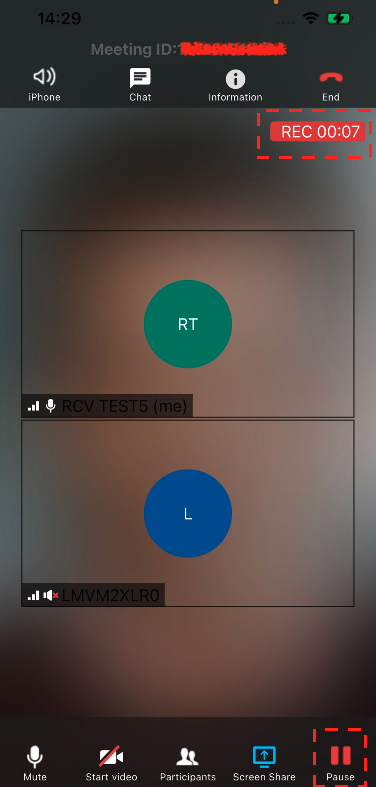
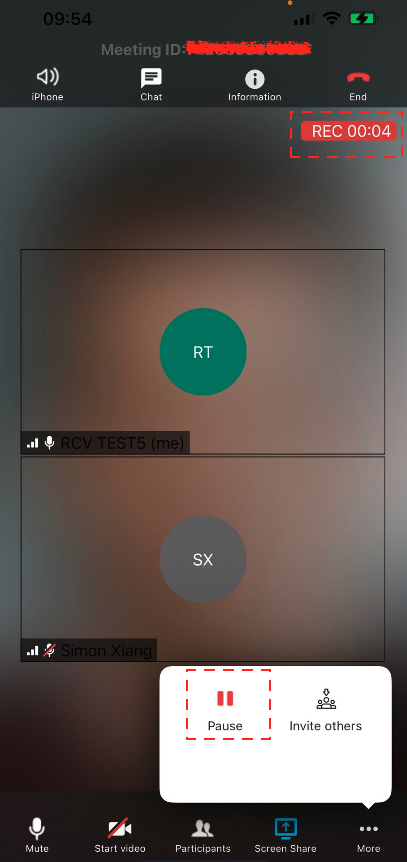
Update version and add new feature description

diff --git a/android/README.md b/android/README.md
@@ -89,6 +89,31 @@ When you are the host or moderator, you can control the start/pause/resume recor
 
 <div align="left"><img src=README.assets/image-20230406161249171.png width=300 style="margin-right:10px;"><img src=README.assets/image-20230406161425153.png width=300 style="margin-right:10px;"><img src=README.assets/image-20230406161523562.png width=300></div>
 
+### 2.2.5 More Action
+
+This action is aim to add the button besides what was mentioned above, or the custom button need to be add to meeting bottom bar.
+as the follow picture shows, the invite others,closed caption,virtual background buttons are add to more meeting bottom bar.
+<div align="left"><img src=README.assets/image_20230428_101855.png width=300 style="margin-right:10px;"><img src=README.assets/image_20230428_102000.png width=300 style="margin-right:10px;"></div>
+
+### 2.2.6 Invite Others Action
+
+You can click `More` button first, and then click `Invite others` button. 
+
+<div align="left"><img src=README.assets/image_20230428_101855.png width=300 style="margin-right:10px;"><img src=README.assets/image_20230428_103700.png width=300 style="margin-right:10px;"></div>
+
+There will show a popup, you can choose invite other by copy meeting link, or invite by email.
+
+<div align="left"><img src=README.assets/image_20230428_102008.png width=300 style="margin-right:10px;"></div>
+
+if you choose invite by copy meeting link, the meeting link will copy to system clipboard.
+
+<div align="left"><img src=README.assets/image_20230428_102051.png width=300 style="margin-right:10px;"></div>
+
+Corresponding to above, if you choose invite by email, uikit will generate the email content, you can choose a email app to send it.
+
+<div align="left"><img src=README.assets/image_20230428_102102.png width=300 style="margin-right:10px;"><img src=README.assets/invite_by_email.png width=300 style="margin-right:10px;"></div>
+
+
 ### 2.3 Gallery 
 
 This is the layout of the  RingCentral Video SDK UIKit-Android main page. Sliding pages are adopted. Basic information of up to three participants is displayed on each page.  

diff --git a/ios/README.md b/ios/README.md
@@ -70,13 +70,28 @@ If you are host or moderator, you can do remote audio/video mute/unmute here.
 
 <div align="left"><img src=img/participantList.png width=300><img src=img/participantMore.png width=300></div> 
 
-#### 2.2.4 Screen Sharing Action
-#### 2.2.5 Meeting Recording Action
+
+
+#### 2.2.4 More Action
+
+Some other extension functions are placed in the More menu, click the More button, you can pop up the menu list, select the required functions, currently there are two functions, recording and invite, later can support customization.
+
+<div align="left"><img src=img/morePage.png width=300><img src=img/moreMenu.png width=300></div>
+
+##### 2.2.4.1 Meeting Recording Action
+
 The recording button<img src=img/startRecord.png width=40> will be displayed in the Meeting Bottom Bar if your account has recording rights, otherwise it will not be displayed. With this button you can control start/pause/resume  recording. 
 
 <div align="left"><img src=img/record.png width=300><img src=img/pause.png width=300><img src=img/resume.png width=300></div>
 
+##### 2.2.4.2 Invite Others Action
+
+Currently, two invite methods are supported: copy meeting link and email. If you want to invite by email, you need to set an email account on your device. Otherwise, you can't invite others by email.
+
+<div align="left"><img src=img/invitePage.png width=300><img src=img/inviteOptions.png width=300></div>
+
 ### 2.3 Gallery 
+
 This is the layout of the RCVUIKit-iOS main page. Sliding pages are adopted. Basic information of up to three participants is displayed on each page.  
 Each participant has a corresponding cell in the gallery, used to display the participant of the video/audio/network/avatars and other information.
 
